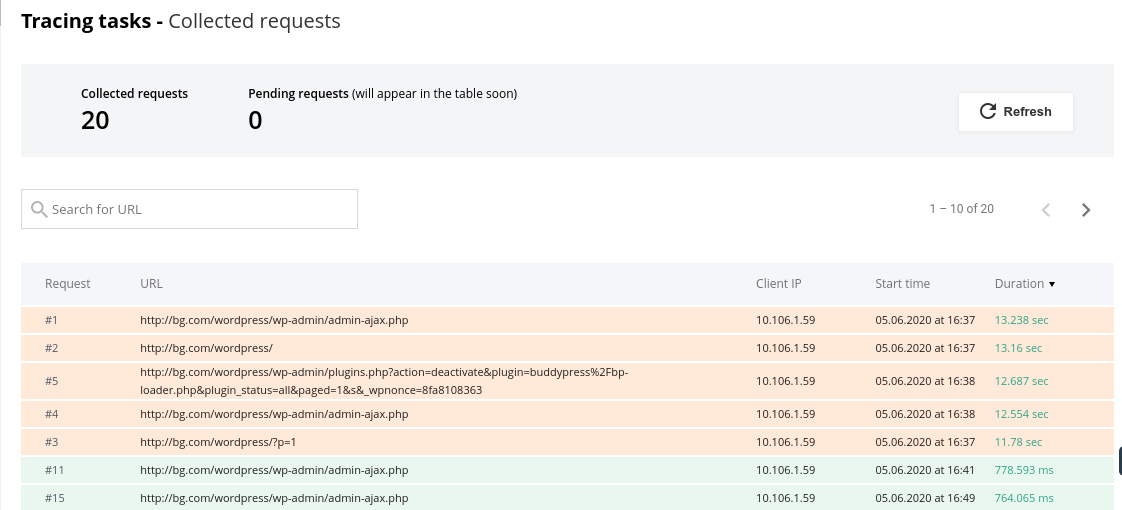
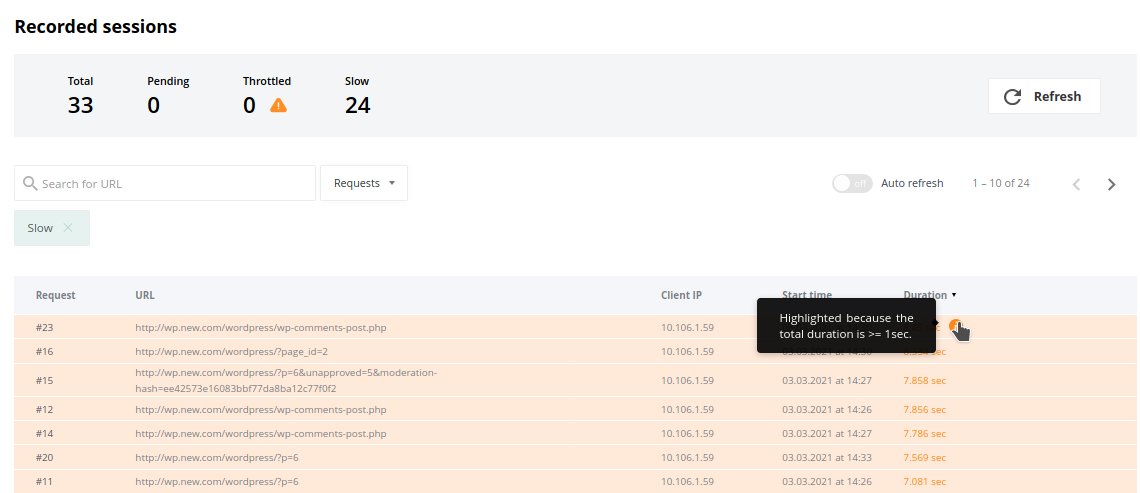
PT-2093: Update X-Ray documentation

diff --git a/docs/cloudlinux-os-plus/README.md b/docs/cloudlinux-os-plus/README.md
@@ -199,8 +199,19 @@ The slowest request is highlighted.
 
 ![](/images/XRaySlowestRequest.png)
 
-* <span class="notranslate">**Collected requests**</span> displays how many requests were collected according to tasks requirements.
-* <span class="notranslate">**Pending requests**</span> displays how many of collected requests are not visible in the table yet.
+* <span class="notranslate">**Total**</span> displays how many requests were collected according to tasks requirements.
+* <span class="notranslate">**Pending**</span> displays how many of collected requests are not visible in the table yet.
+* <span class="notranslate">**Throttled**</span> displays the number of requests during the execution of which the LVE limits were exceeded.
+* <span class="notranslate">**Slow**</span> displays the number of requests lasting more than one second.
+
+There are filters for the request types and the indicator of a filter used now.
+
+![](/images/FilterIndicator.png)
+
+If slow requests were not detected during the tracing task, the following is displayed. Here, you can also view all requests.
+
+![](/images/RecordedSession.png)
+
 
 <span class="notranslate">X-Ray</span> collects the following data for each request:
 
